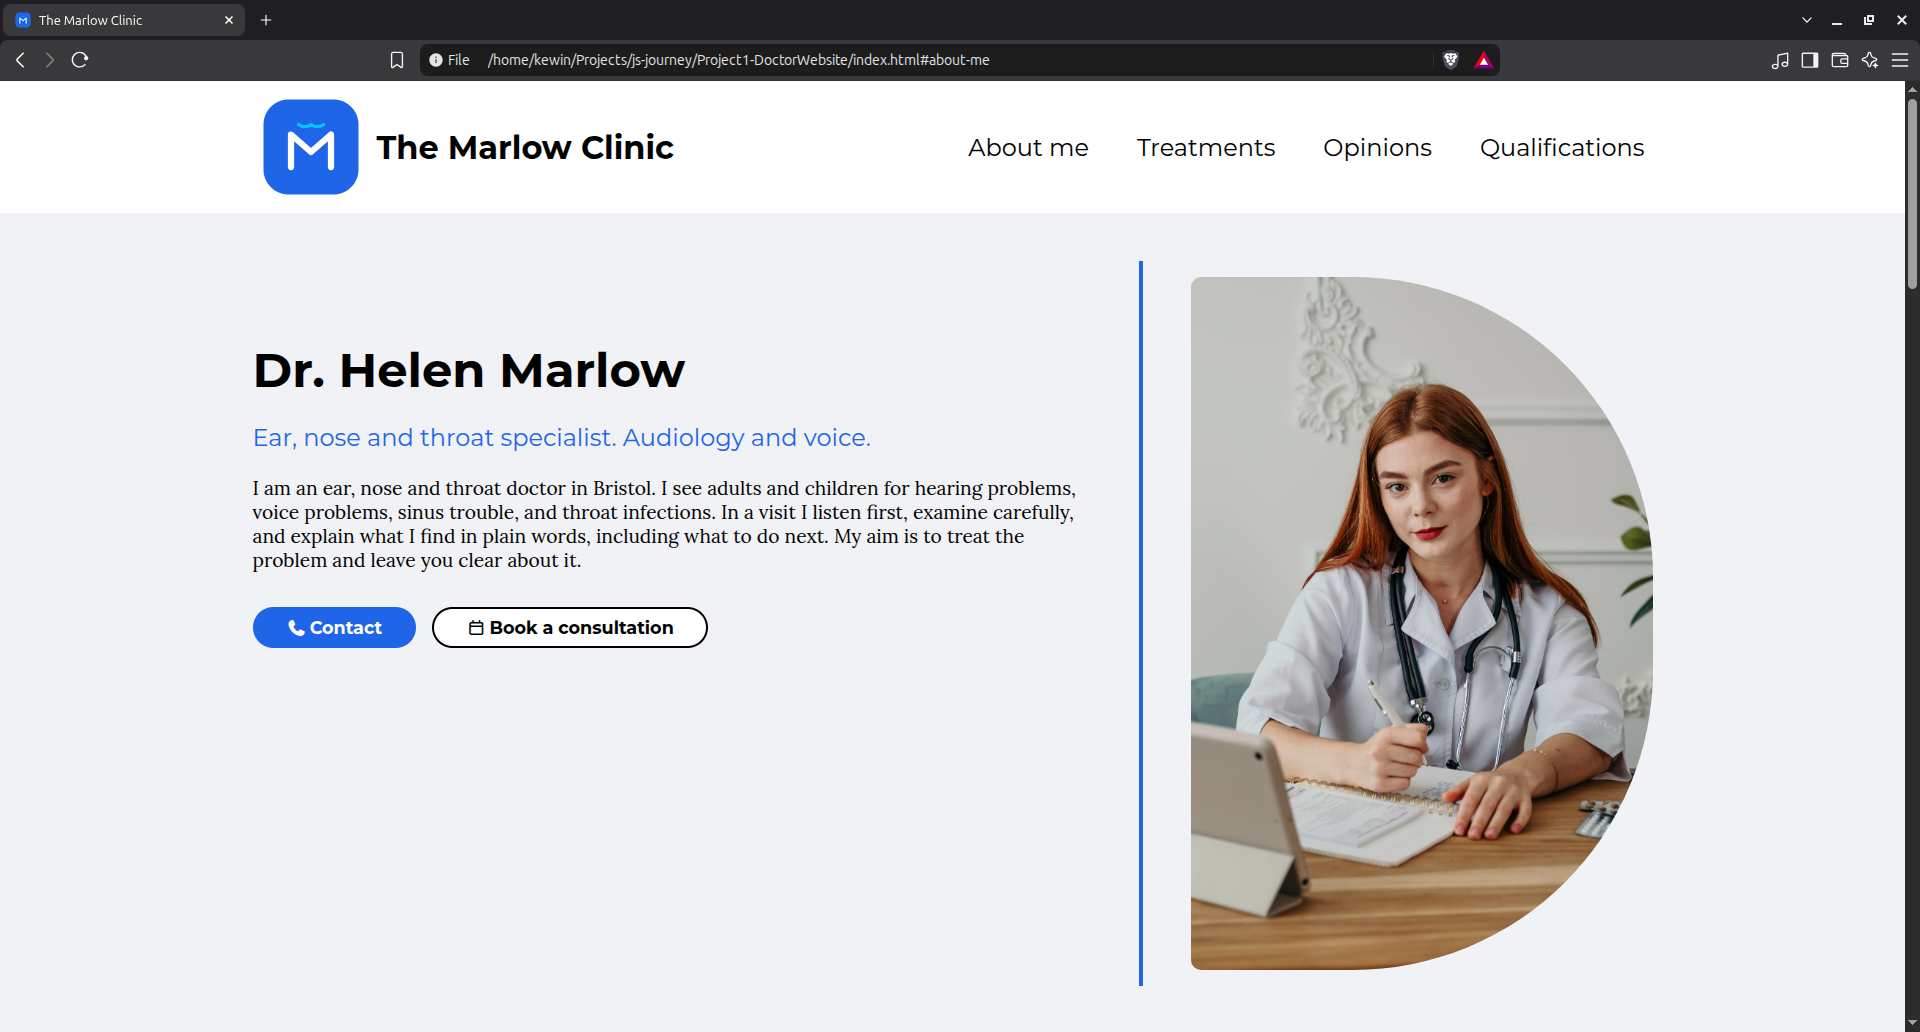
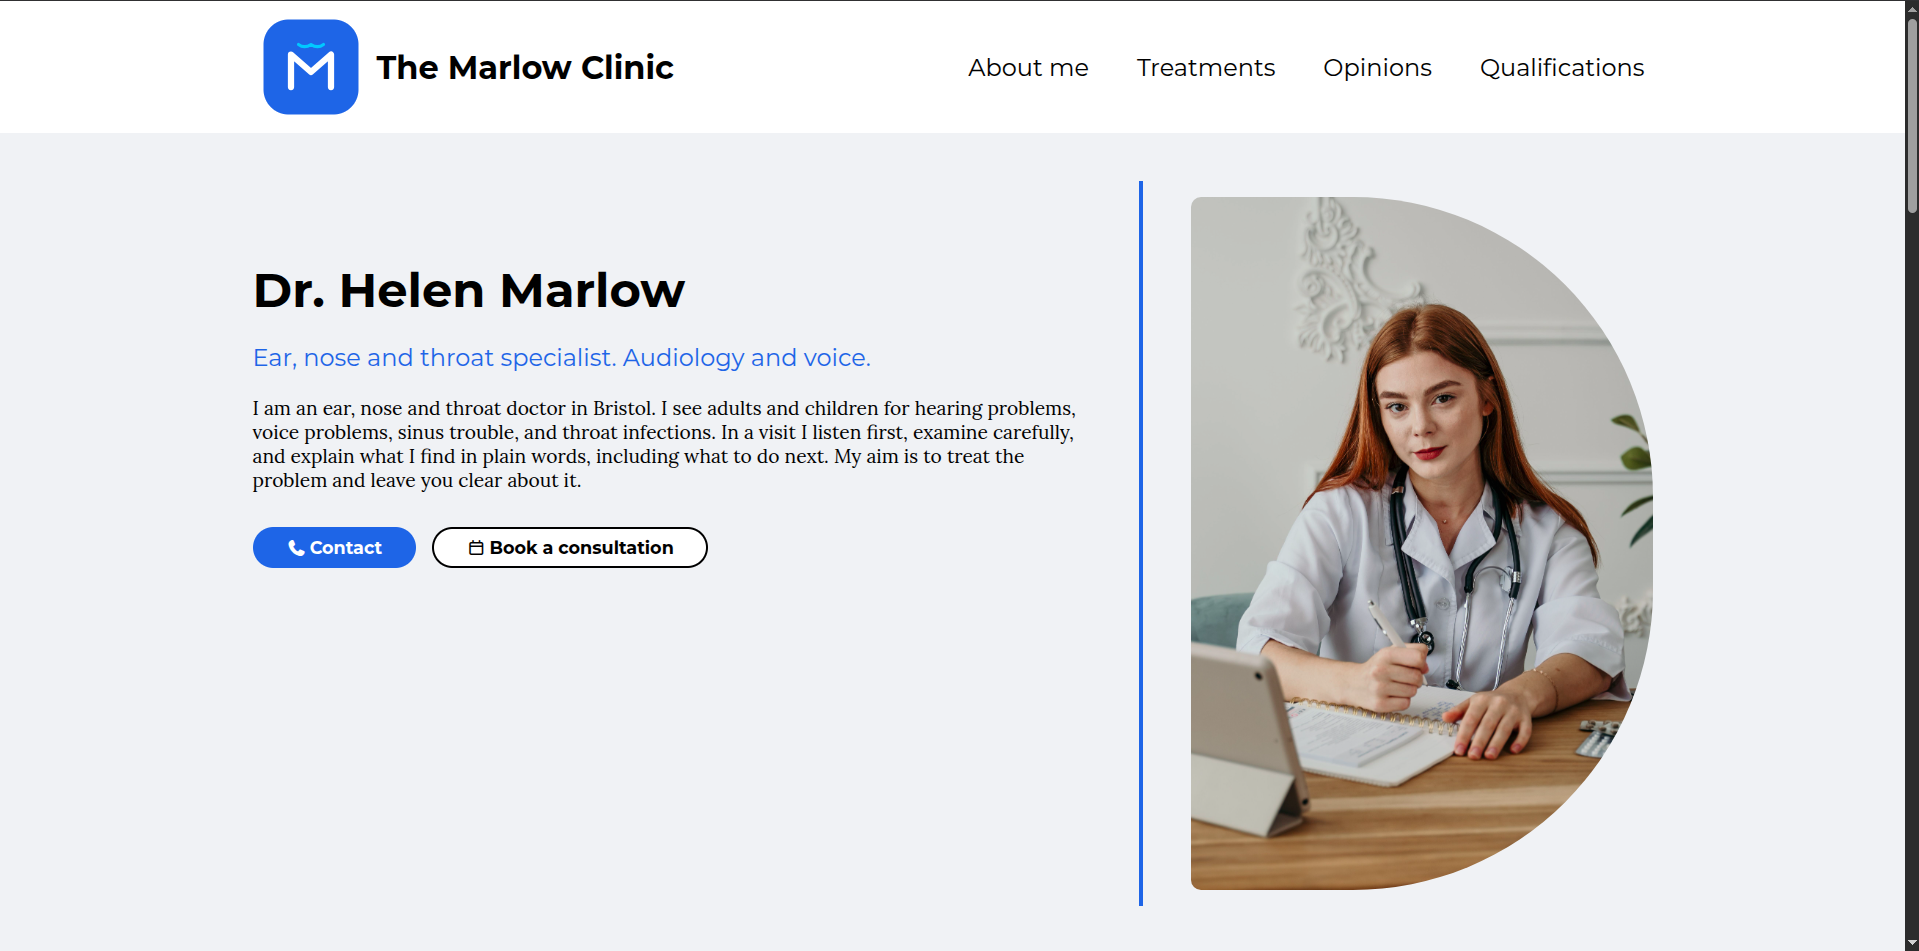
Project 1: meta description, intializeDots()) and opinionCards.length

diff --git a/Project1-DoctorWebsite/styles.css b/Project1-DoctorWebsite/styles.css
@@ -281,6 +281,10 @@ nav a:focus-visible {
     gap: 1rem;
 }
 
+.info-buttons a {
+    text-decoration: none;
+}
+
 .info-buttons button {
     display: flex;
     gap: 0.2rem;
@@ -573,7 +577,7 @@ nav a:focus-visible {
     background-color: var(--details);
 
     font-family: var(--font-heading);
-    font-size: 1.2rem;
+    font-size: 1.1rem;
     font-weight: bold;
     color: var(--background1);
     
@@ -717,12 +721,13 @@ nav a:focus-visible {
 }
 
 .opinions-list h3 {
+    margin: 0 0 1rem;
     font-family: var(--font-heading);
     font-size: 1.5rem;
 }
 
 .opinions-list .reviewer {
-    margin-top: 0.7rem;
+    margin-top: 0;
     font-family: var(--font-heading);
     font-size: 1.2rem;
     color: var(--details);
@@ -735,7 +740,7 @@ nav a:focus-visible {
 .opinions-list .date {
     margin: auto 0 0 0;
     border-top: 2px solid var(--details);
-    padding-top: 2rem;
+    padding-top: 1rem;
     color: var(--text-muted);
 }
 
@@ -959,11 +964,11 @@ nav a:focus-visible {
     color: var(--text-muted);
 }
 
-details[open] .qualifications-toggle {
+.qualifications [open] .qualifications-toggle {
     color: var(--details);
 }
 
-details::details-content {
+.qualifications details::details-content {
     block-size: 0;
     overflow: hidden;
     
@@ -977,19 +982,19 @@ details::details-content {
     transition-behavior: allow-discrete;
 }
 
-details[open]::details-content {
+.qualifications details[open]::details-content {
     block-size: auto;
     padding-bottom: 2rem;
 }
 
-details ul {
+.qualifications details ul {
     display: grid;
     gap: 1rem;
     margin: 0;
     padding-left: 1.5rem;
 }
 
-details li::marker {
+.qualifications details li::marker {
     font-size: 1.5rem;
     color: var(--details);
 }
@@ -1020,16 +1025,16 @@ details li::marker {
         min-width: 40px;
     }
 
-    details::details-content {
+    .qualifications details::details-content {
         margin-bottom: 1rem;
         font-size: 1rem;
     }
 
-    details[open]::details-content {
+    .qualifications details[open]::details-content {
         padding-bottom: 1rem;
     }
 
-    details li::marker {
+    .qualifications details li::marker {
         font-size: 1.1rem;
     }
 }
@@ -1076,11 +1081,11 @@ details li::marker {
         color: var(--details2);
     }
 
-    details[open] .qualifications-toggle {
+    .qualifications details[open] .qualifications-toggle {
         color: var(--details2);
     }    
 
-    details::details-content {
+    .qualifications details::details-content {
         color: var(--background1);
     }
 

diff --git a/Project1-DoctorWebsite/script.js b/Project1-DoctorWebsite/script.js
@@ -12,12 +12,12 @@ const hiddenNav = document.getElementById("hidden-nav");
 const hiddenNavContent = Array.from(hiddenNav.children);
 
 let opinionCardsPosition = 0;
-const opinionCardsAmount = 6;
 const opinionsList = document.getElementById("opinions-list");
 const opinionsBtnLeft = document.getElementById("opinions-btn-left");
 const opinionsBtnRight = document.getElementById("opinions-btn-right");
 const opinionsListDotsDom = document.getElementById("opinions-list-dots");
-const opinionsListDots = Array.from(opinionsListDotsDom.children)
+let opinionsListDots = Array.from(opinionsListDotsDom.children); 
+const opinionsCards = Array.from(opinionsList.children).filter(el => el.getAttribute(`aria-hidden`) !== `true`);
 
 let intervalId = null;
 const delay = 7000;
@@ -63,6 +63,19 @@ function toggleDropDown() {
     })
 }
 
+function intializeDots() {
+    const dot = opinionsListDots[0];
+    dot.classList.toggle("fa-solid");
+    dot.classList.toggle("fa-regular");    
+    
+    for(let i = 1; i < opinionsCards.length; i++){
+        const dotCopy = dot.cloneNode(true);
+        opinionsListDotsDom.appendChild(dotCopy);
+    }
+    opinionsListDots = Array.from(opinionsListDotsDom.children); 
+    toggleOpinionListDot();
+}
+
 function toggleOpinionListDot(){
     opinionsListDots[opinionCardsPosition].classList.toggle("fa-solid");
     opinionsListDots[opinionCardsPosition].classList.toggle("fa-regular");
@@ -73,7 +86,7 @@ function moveOpinionCardsRight() {
     toggleOpinionListDot();
     opinionCardsPosition += 1;
 
-    if (opinionCardsPosition >= opinionCardsAmount) {
+    if (opinionCardsPosition >= opinionsCards.length) {
         opinionCardsPosition = 0;
     }
 
@@ -89,7 +102,7 @@ function moveOpinionCardsLeft() {
     opinionCardsPosition -= 1;
 
     if (opinionCardsPosition < 0) {
-        opinionCardsPosition += opinionCardsAmount;
+        opinionCardsPosition += opinionsCards.length;
     }
 
     toggleOpinionListDot();
@@ -158,3 +171,5 @@ scrollTop.addEventListener("click", ()=>{
         top: 0
     })
 })
+
+intializeDots();

diff --git a/Project1-DoctorWebsite/index.html b/Project1-DoctorWebsite/index.html
@@ -3,6 +3,7 @@
 <head>
    <meta charset="UTF-8">
    <meta name="viewport" content="width=device-width, initial-scale=1.0">
+   <meta name="description" content="Fictional clinic in Bristol, built as a one-page portfolio site.">
    <title>The Marlow Clinic</title>
    <link rel="icon" href="logo.svg">
    <link rel="stylesheet" href="styles.css">
@@ -48,10 +49,12 @@
                <p class="role">Ear, nose and throat specialist. Audiology and voice.</p>
                <p class="bio">I am an ear, nose and throat doctor in Bristol. I see adults and children for hearing problems, voice problems, sinus trouble, and throat infections. In a visit I listen first, examine carefully, and explain what I find in plain words, including what to do next. My aim is to treat the problem and leave you clear about it.</p>
                <div class="info-buttons">
-                  <button class="contact-btn">
-                     <i class="fa-solid fa-phone"></i>
-                     Contact
-                  </button>
+                  <a href="tel:01174960123">
+                     <button class="contact-btn" href="tel:01174960123">
+                        <i class="fa-solid fa-phone"></i>
+                        Contact
+                     </button>
+                  </a>
                   <button class="consultation-btn">
                      <i class="fa-regular fa-calendar"></i>
                      Book a consultation
@@ -134,11 +137,6 @@
             </div>
             <div class="opinions-list-dots" id="opinions-list-dots">
                <i class="fa-solid fa-circle"></i>
-               <i class="fa-regular fa-circle"></i>
-               <i class="fa-regular fa-circle"></i>
-               <i class="fa-regular fa-circle"></i>
-               <i class="fa-regular fa-circle"></i>
-               <i class="fa-regular fa-circle"></i>
             </div>
             <ul class="opinions-list" id="opinions-list">
                <li>

diff --git a/Project1-DoctorWebsite/README.md b/Project1-DoctorWebsite/README.md
@@ -1,19 +1,21 @@
 # The Marlow Clinic
 
-A one-page site for a fictional ear, nose and throat clinic in Bristol. Built as a portfolio project: layout, responsive CSS, and a small amount of JavaScript. No build step. Open `index.html` in a browser.
+A one-page site for a fictional clinic in Bristol. Built as a portfolio project: layout, responsive CSS, and a small amount of JavaScript. No build step. Open `index.html` in a browser.
 
 **Live site:** https://kewinbielik.github.io/js-journey/Project1-DoctorWebsite/
 
 ![The Marlow Clinic on a desktop screen](screenshot.png)
 
-## What it does
+## Features
 
-- The header stays on screen. Below 1020px the links move into a menu button.
 - Four sections: about the doctor, treatments, patient reviews, and qualifications.
-- On a wide screen the reviews scroll on their own. Below 760px, buttons move one card at a time.
-- The qualification rows open and close with `<details>` and `<summary>`.
-- A back-to-top button appears after scrolling down.
-- When the browser asks for less motion, the automatic movement stops. On a wide screen the reviews can still be scrolled sideways.
+- Sticky top bar.
+- Back-to-top button.
+- When the browser asks for less motion, the automatic movement stops.
+- The layout changes with the screen width:
+    - The top bar menu switches to "hamburger".
+    - Each section changes design to better fit the screen.
+    - On a wide screen the reviews scroll on their own. Below 760px, buttons move one card at a time.
 
 ## Image credits
 

diff --git a/progress.md b/progress.md
@@ -1236,4 +1236,8 @@ Both are ordinary middleware: they do one job to `req` or `res`, then call `next
   - Fixed typos in js comments.
   - Removed the colons from the section headers.
   - Filled up README.md with more info and a screenshot.
+  - Fixed to big buttons in treatments section.
+  - Added meta description.
+  - Contact button now calls the phone number.
+  - intilalizeDots() and opinionCards.length.
 - **What I learned:**
